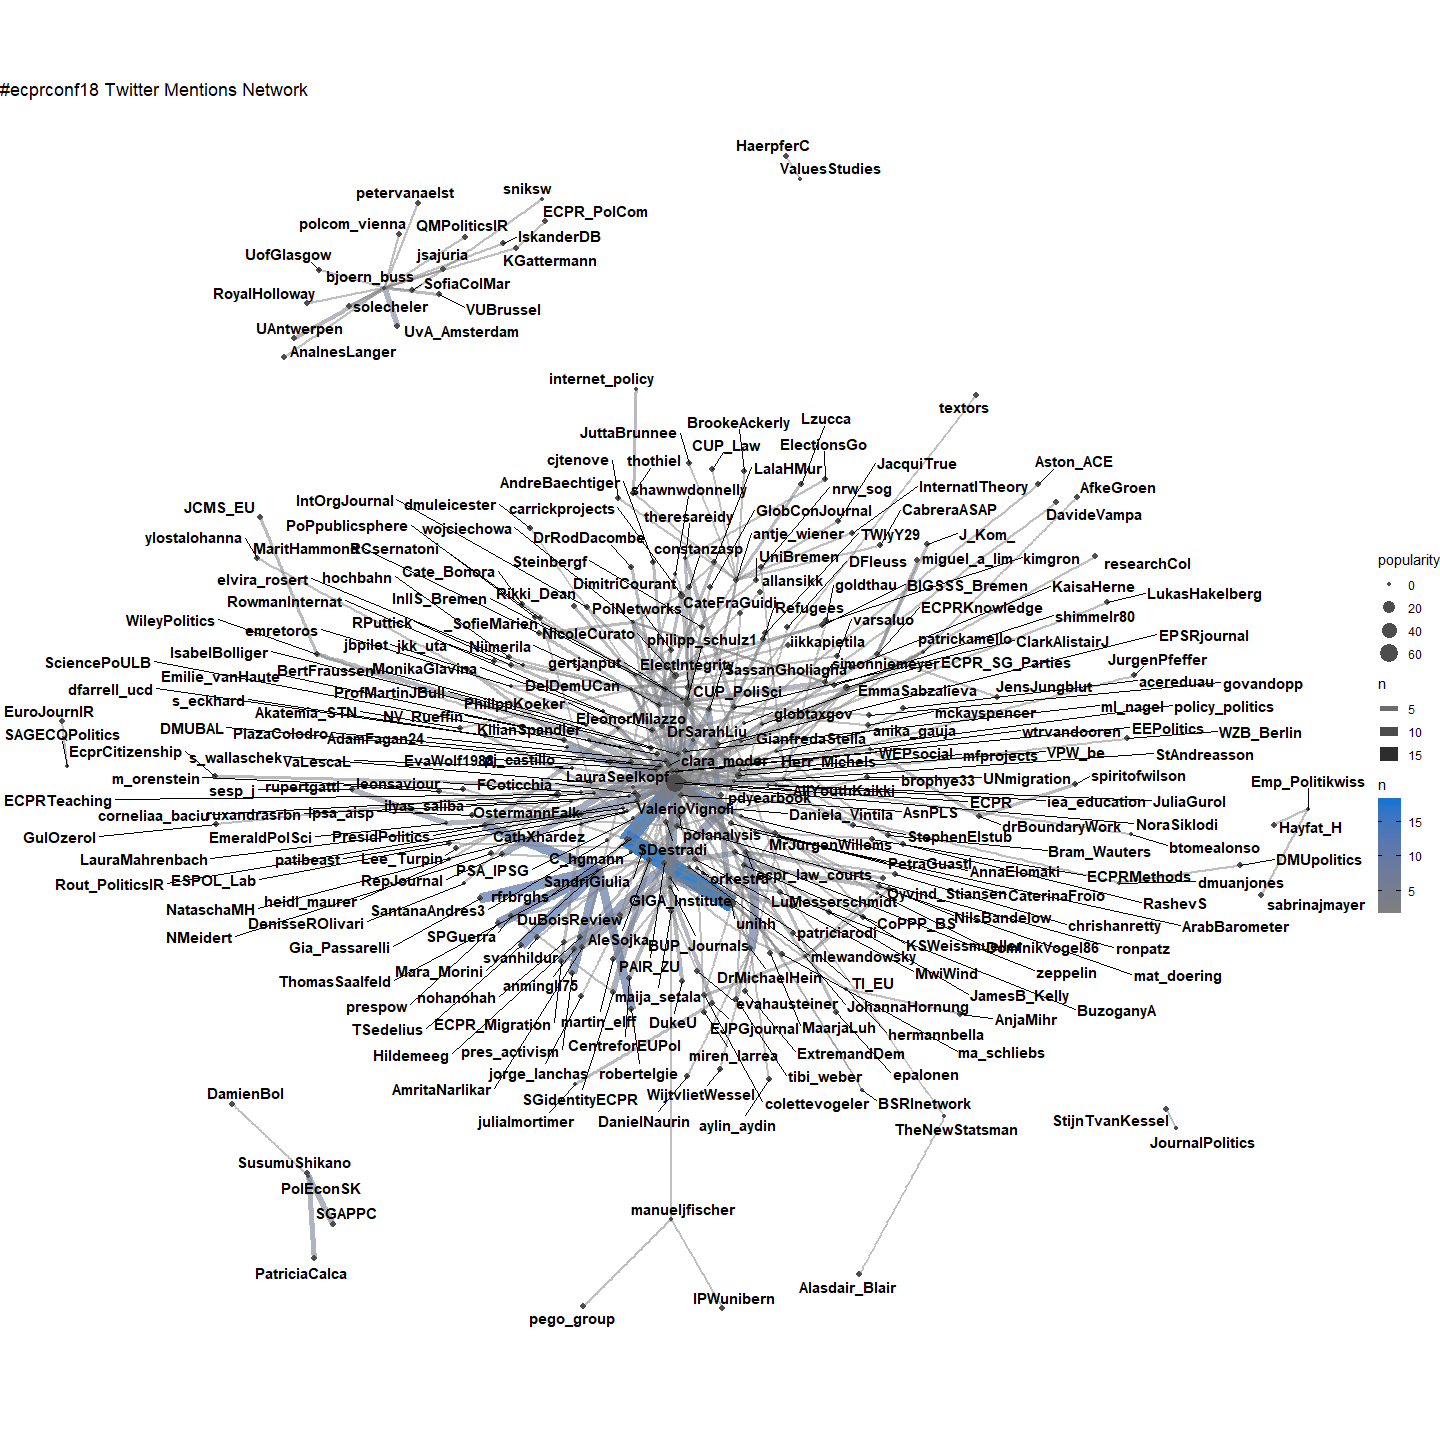
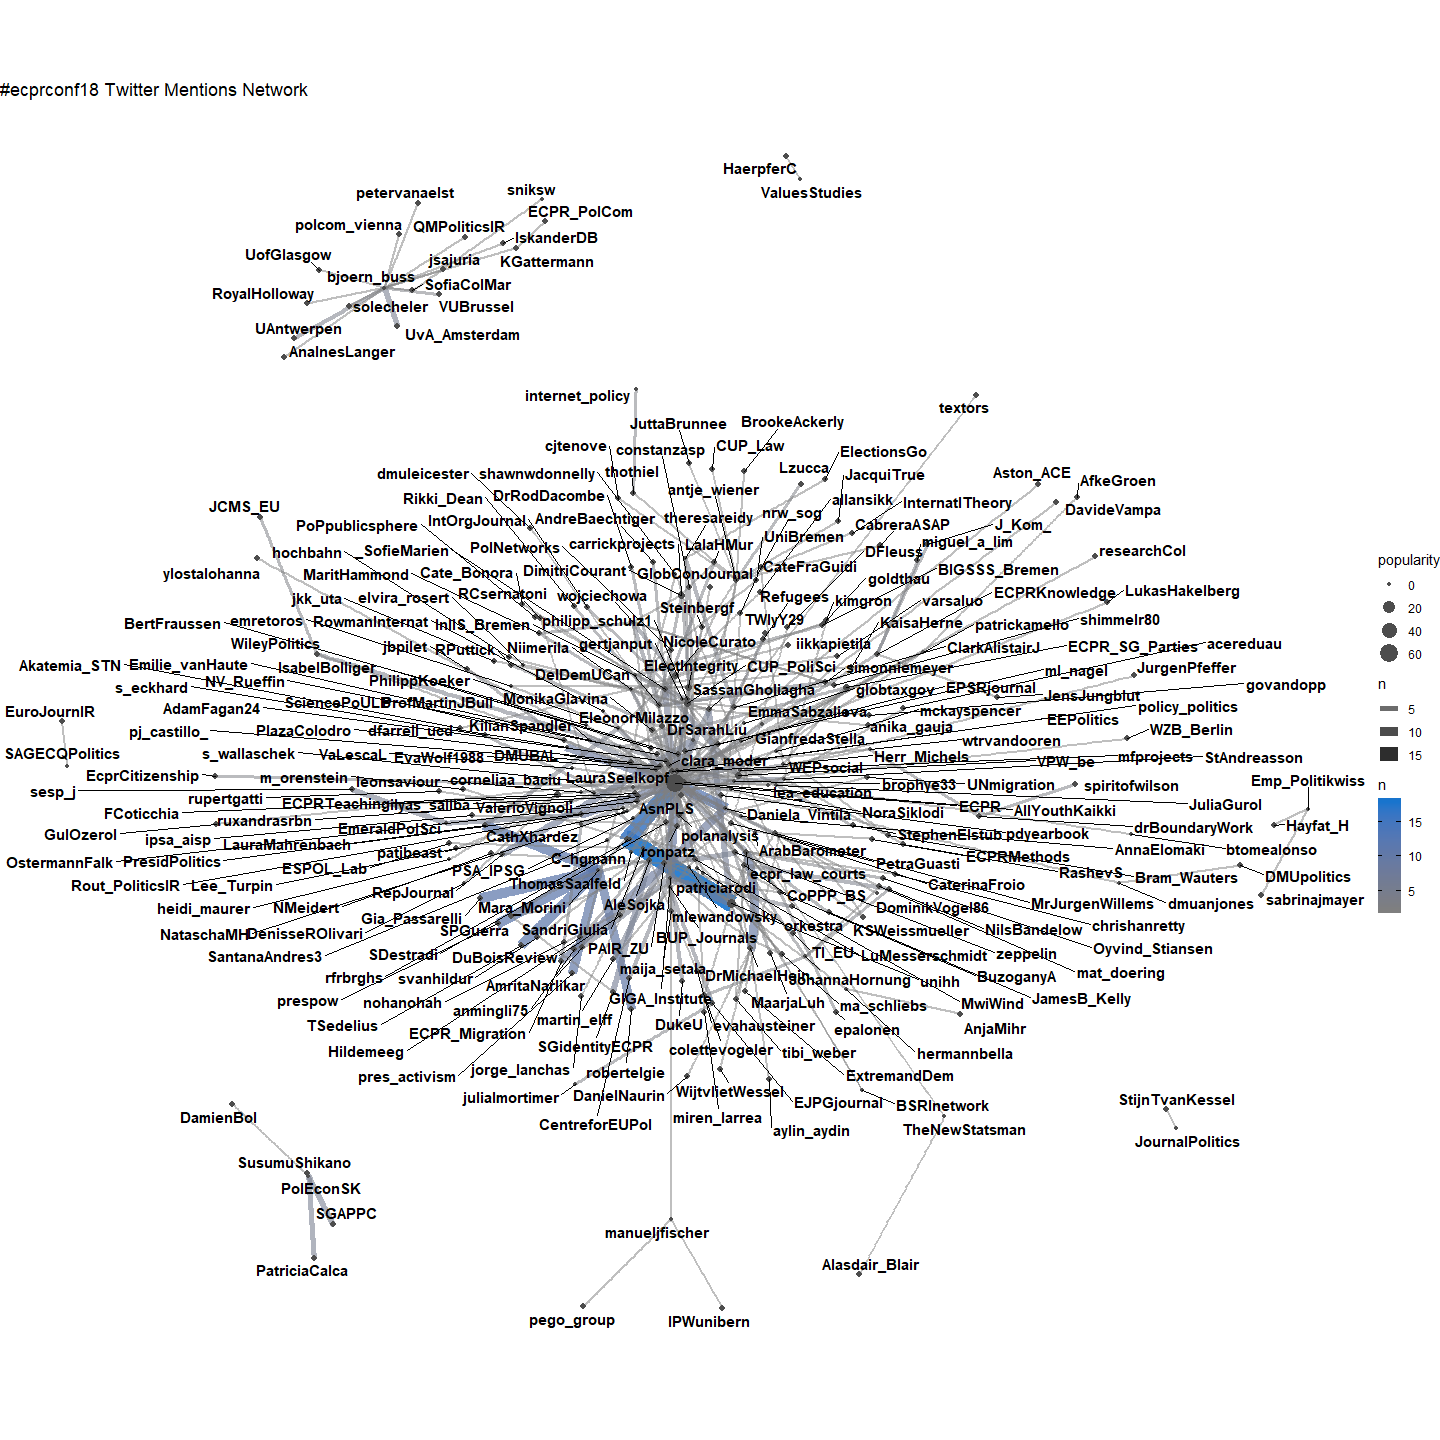
adding more networks

diff --git a/README.md b/README.md
@@ -190,7 +190,7 @@ rt %>%
 
 ![](ecprconf2018_twitter_files/figure-gfm/unnamed-chunk-5-1.png)<!-- -->
 
-## Retweet Network
+## Mentions Network
 
 ``` r
 rt_graph <- rt %>% 
@@ -204,7 +204,7 @@ rt_graph <- rt %>%
   ungroup %>% 
   ## drop missing values
   drop_na %>% 
-  ## fliter those coocurences that appear at least 2 times
+  ## filter those coocurences that appear at least 2 times
   filter(n > 1) %>% 
   ## transforming the dataframe to a graph object
   as_tbl_graph() %>% 
@@ -277,6 +277,48 @@ rt_graph %>%
 
 ![](ecprconf2018_twitter_files/figure-gfm/unnamed-chunk-6-3.png)<!-- -->
 
+### Smaller Mentions Network (n \> 2)
+
+``` r
+rt_graph2 <- rt %>% 
+  ## select relevant variables
+  dplyr::select(screen_name, mentions_screen_name) %>% 
+  ## unnest list of mentions_screen_name
+  unnest %>% 
+  ## count the number of coocurences
+  group_by(screen_name, mentions_screen_name) %>% 
+  tally(sort = T) %>%
+  ungroup %>% 
+  ## drop missing values
+  drop_na %>% 
+  ## filter those coocurences that appear at least 2 times
+  filter(n > 2) %>% 
+  ## transforming the dataframe to a graph object
+  as_tbl_graph() %>% 
+  ## calculating node centrality
+  mutate(popularity = centrality_degree(mode = 'in'))
+
+rt_graph2 %>% 
+  ## create graph layout
+  ggraph(layout = "kk") + 
+  ## define edge aestetics
+  geom_edge_fan(aes(alpha = n, edge_width = n, color = n)) + 
+  ## scale down link saturation
+  scale_edge_alpha(range = c(.5, .9)) +
+  ## define note size param
+  scale_edge_color_gradient(low = "gray50", high = "#1874CD") +
+  geom_node_point(aes(size = popularity), color = "gray30") +
+  ## equal width and height
+  coord_fixed() +
+  geom_node_text(aes(label = name), repel = T, fontface = "bold") +
+  ## plain theme
+  theme_void() +
+  ## title
+  ggtitle("#ecprconf18 Twitter Mentions Network")
+```
+
+![](ecprconf2018_twitter_files/figure-gfm/unnamed-chunk-7-1.png)<!-- -->
+
 ## Most Frequent Hashtags
 
 ``` r
@@ -304,7 +346,7 @@ rt_hashtags %>%
   ggtitle("Most Frequent Hastags related to #ecprconf18")
 ```
 
-![](ecprconf2018_twitter_files/figure-gfm/unnamed-chunk-7-1.png)<!-- -->
+![](ecprconf2018_twitter_files/figure-gfm/unnamed-chunk-8-1.png)<!-- -->
 
 ## Most Frequent Bigram Network
 
@@ -352,7 +394,7 @@ gg_bigram %>%
   ggtitle("Top Bigram Network from Tweets using hashtag #ecprconf18")
 ```
 
-![](ecprconf2018_twitter_files/figure-gfm/unnamed-chunk-9-1.png)<!-- -->
+![](ecprconf2018_twitter_files/figure-gfm/unnamed-chunk-10-1.png)<!-- -->
 
 ``` r
 sessionInfo()
